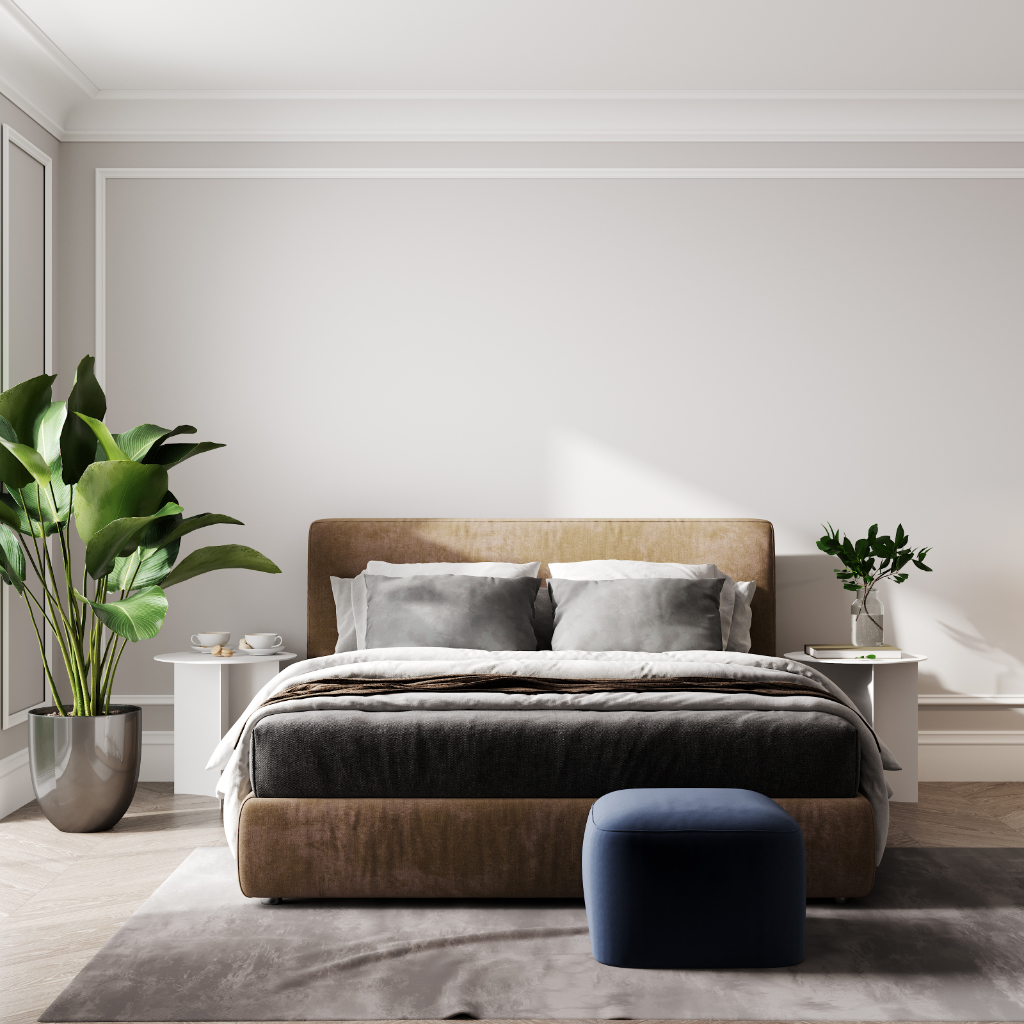
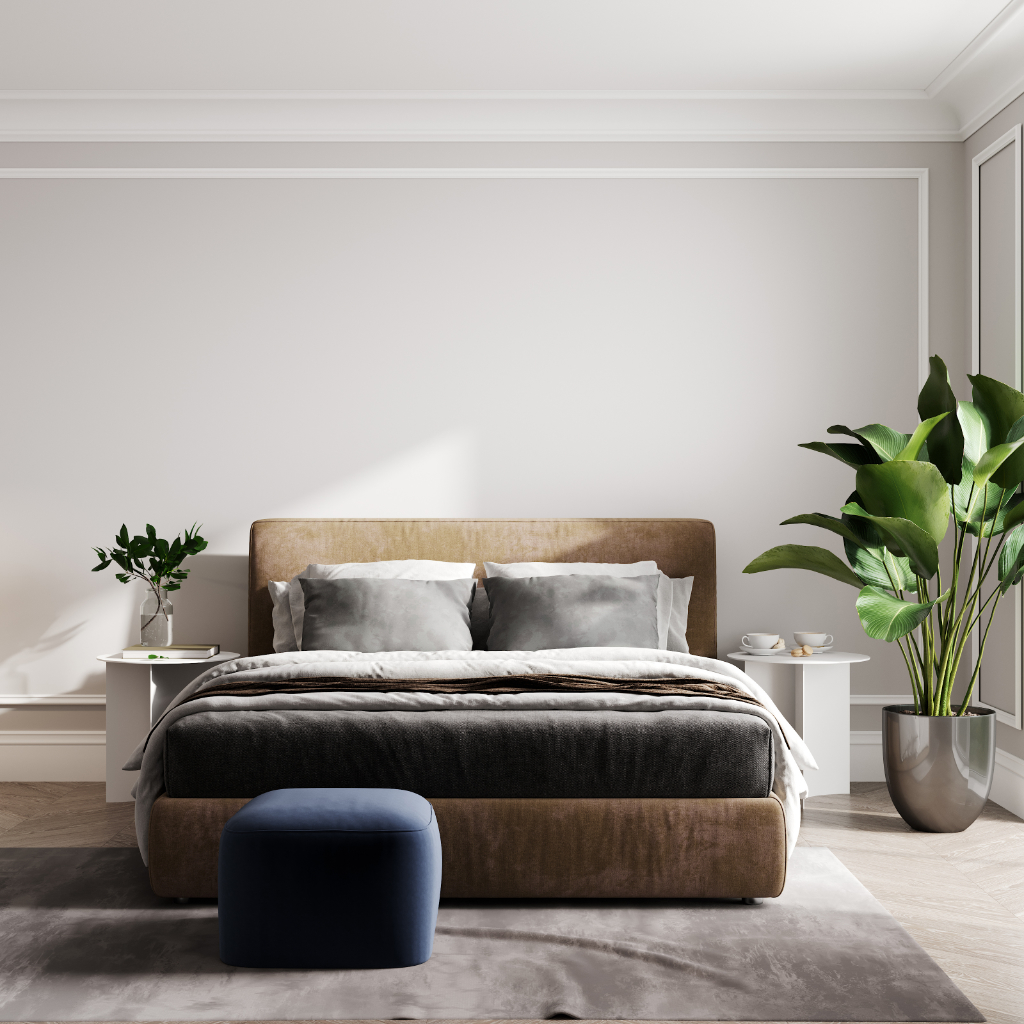
V1.3.3

diff --git a/src/utils/generateMockups.js b/src/utils/generateMockups.js
@@ -63,9 +63,9 @@ const generateMockups = async (imageBuffer) => {
             imageBuffer,
             backgroundFileName: "bedroom",
             resize: {
-                x1: 422,
+                x1: 362,
                 y1: 240,
-                x2: 662
+                x2: 602
             },
             lighting: {
                 brightness: 60,
@@ -82,7 +82,7 @@ const generateMockups = async (imageBuffer) => {
             shadow: {
                 blurAmount: 4,
                 radius: 0,
-                offsetX: 5,
+                offsetX: -5,
                 offsetY: 5,
                 opacity: 0.35
             }
